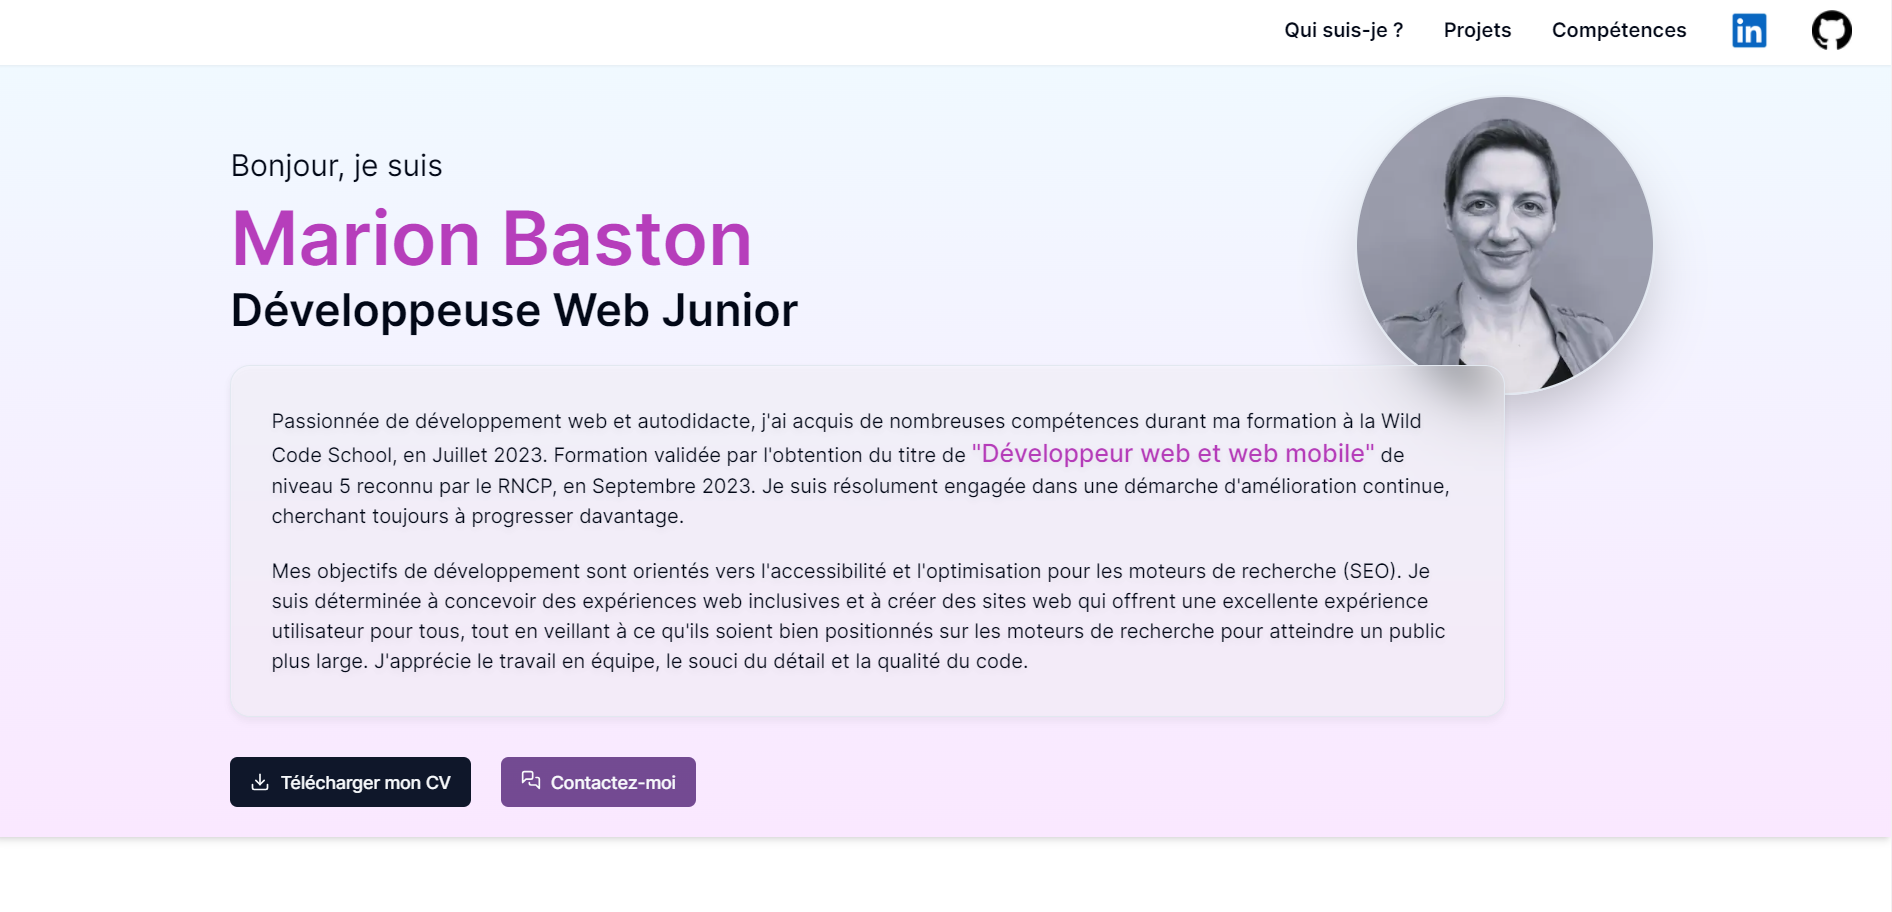
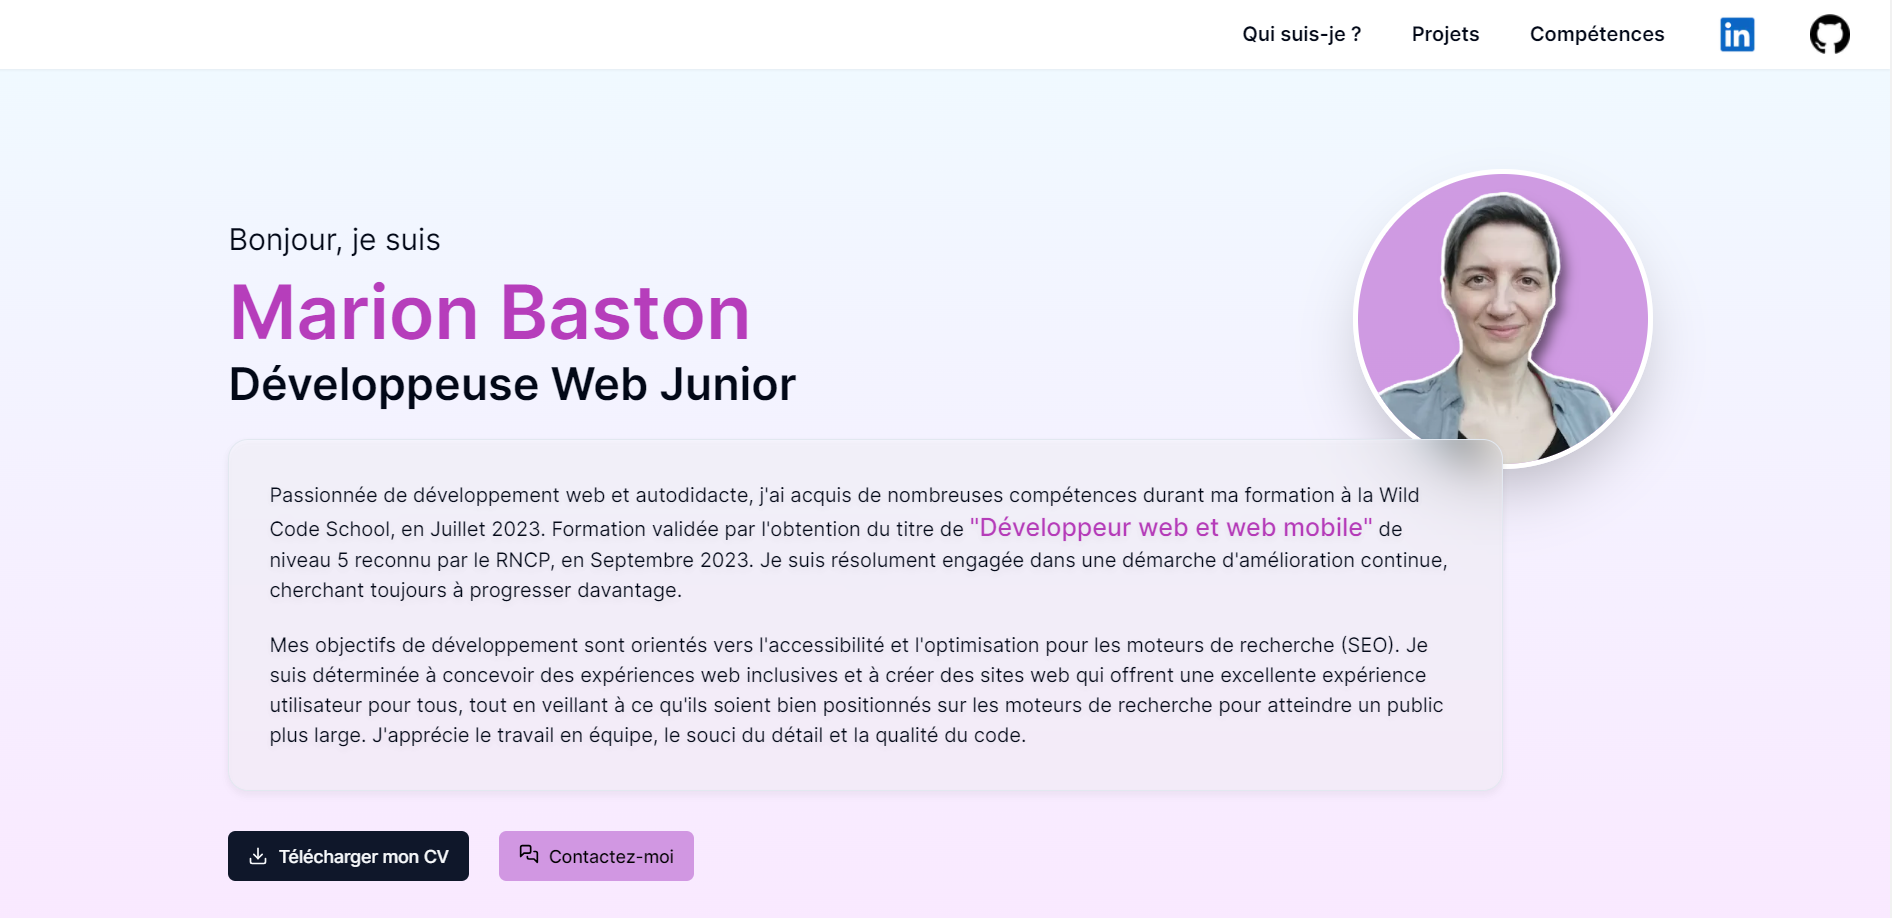
change style colors tabs

Changed region(s): [[0.0936, 0.0921, 0.8732, 0.9825], [0.1247, 0.1535, 0.4366, 0.3684], [0.6549, 0.0, 0.9979, 0.0614]]

diff --git a/app/page.js b/app/page.js
@@ -29,6 +29,9 @@ export default function Home() {
               expériences en développement web !
             </p>
           </div>
+
+          <div classname=""></div>
+
           <Tabs defaultValue="side-project">
             <TabsList
               aria-label="naviguez entre les onglets avec les flèches"
@@ -37,7 +40,7 @@ export default function Home() {
               <TabsTrigger
                 value="side-project"
                 aria-controls="projets-personnels"
-                className=" hover:bg-white hover:text-[#ffffff]  hover:font-bold hover:bg-purple hover:rotate-[-10deg] hover:rounded-full "
+                className=" hover:bg-white hover:text-[#ffffff]  hover:font-bold hover:bg-purple  hover:rounded-full "
               >
                 Personnels
               </TabsTrigger>
@@ -45,21 +48,21 @@ export default function Home() {
               <TabsTrigger
                 value="training"
                 aria-controls="projets-formations"
-                className=" hover:bg-white hover:text-[#ffffff]  hover:font-bold hover:bg-purple hover:rotate-[-10deg] hover:rounded-full "
+                className=" hover:bg-white hover:text-[#ffffff]  hover:font-bold hover:bg-purple  hover:rounded-full "
               >
                 Formations
               </TabsTrigger>
               <TabsTrigger
                 value="professional"
                 aria-controls="projets-professionnels"
-                className=" hover:bg-white hover:text-[#ffffff]  hover:font-bold hover:bg-purple hover:rotate-[-10deg] hover:rounded-full"
+                className=" hover:bg-white hover:text-[#ffffff]  hover:font-bold hover:bg-purple  hover:rounded-full"
               >
                 Professionnels
               </TabsTrigger>
               <TabsTrigger
                 value="other"
                 aria-controls="projets-autres"
-                className=" hover:bg-white hover:text-[#ffffff]  hover:font-bold hover:bg-purple hover:rotate-[-10deg] hover:rounded-full "
+                className=" hover:bg-white hover:text-[#ffffff]  hover:font-bold hover:bg-purple  hover:rounded-full "
               >
                 Autres
               </TabsTrigger>

diff --git a/components/ui/tabs.jsx b/components/ui/tabs.jsx
@@ -23,7 +23,7 @@ const TabsTrigger = React.forwardRef(({ className, ...props }, ref) => (
   <TabsPrimitive.Trigger
     ref={ref}
     className={cn(
-      "inline-flex items-center justify-center whitespace-nowrap rounded-sm px-3 py-1.5 text-sm font-medium ring-offset-background transition-all focus-visible:outline-none focus-visible:ring-2 focus-visible:ring-ring focus-visible:ring-offset-2 disabled:pointer-events-none disabled:opacity-50 data-[state=active]:bg-background data-[state=active]:text-foreground data-[state=active]:shadow-sm",
+      "inline-flex items-center justify-center whitespace-nowrap rounded-sm px-3 py-1.5 text-sm font-medium ring-offset-background transition-all focus-visible:outline-none focus-visible:ring-2 focus-visible:ring-ring focus-visible:ring-offset-2 disabled:pointer-events-none disabled:opacity-50 data-[state=active]:bg-[#efc0f0c0] data-[state=active]:text-foreground data-[state=active]:shadow-sm",
       className
     )}
     {...props}

diff --git a/app/_components/AboutMe.jsx b/app/_components/AboutMe.jsx
@@ -71,7 +71,7 @@ export default function AboutMe() {
             </Button>
             <Button
               type="button"
-              className=" hover:bg-[#ad4cf7]  bg-[#c173d6]/70 hover:text-[#ffffff] text-[#000000] hover:rotate-[10deg]    "
+              className=" hover:bg-purple bg-[#efc0f0c0] hover:text-[#ffffff] text-[#000000]"
             >
               <Link
                 href={`mailto:${emailAddress}`}

diff --git a/app/_components/Projects/SideProject.jsx b/app/_components/Projects/SideProject.jsx
@@ -105,7 +105,7 @@ const projects = [
       },
     ],
     github_url: "https://github.com/MarionbDev/Portfolio",
-    website_url: "https://marionbaston.vercel.app/",
+    website_url: "https://marionbaston.fr",
     picture_portfolio: picturePortfolio,
   },
 ];
